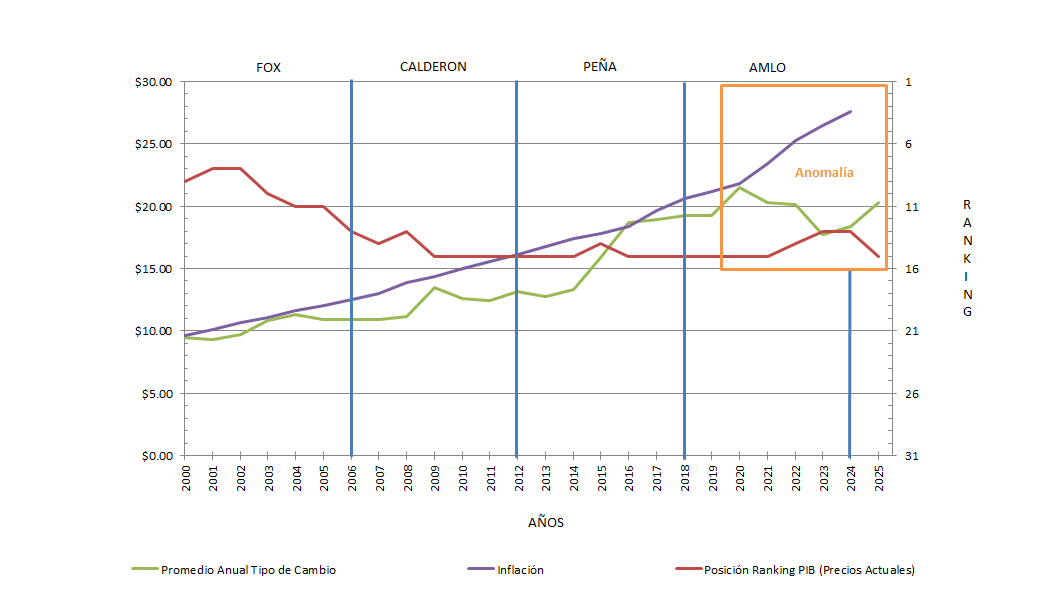
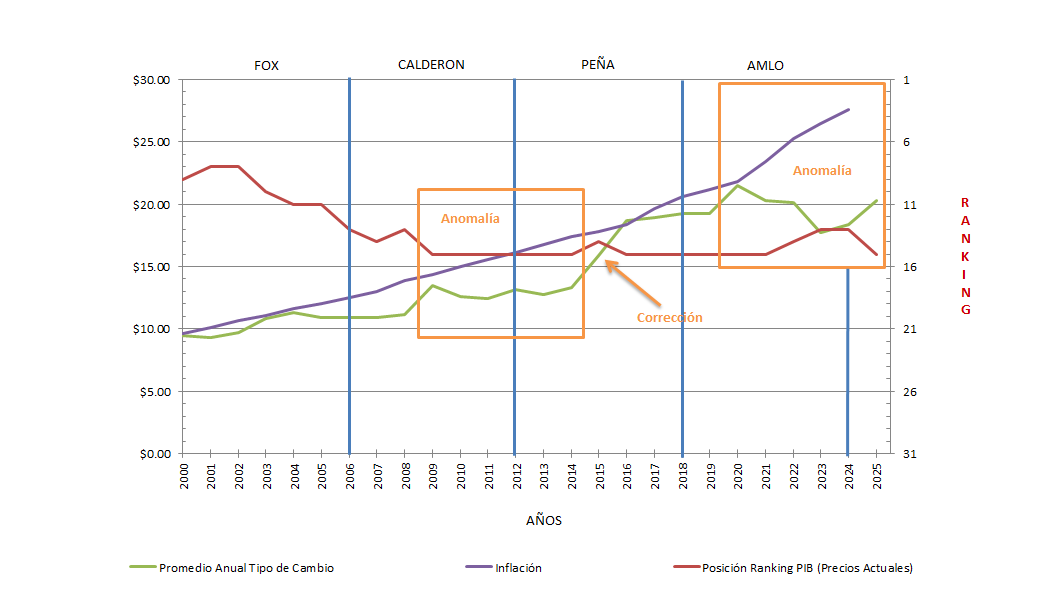
Add files via upload

diff --git a/index.html b/index.html
@@ -410,8 +410,9 @@ function abrirVentana(event, url) {
 <p class="derecha"><a href="#inicio">↑ Volver al inicio</a></p>
 <br>
 
-<p>Si graficamos los datos de la tabla anterior, se puede notar que a partir del año 2021 se desacopló la tendencia de la Inflación y la tendencia del Tipo de Cambio.
-Esperemos que eso no traiga problemas en un futuro.
+<p>Si graficamos los datos de la tabla anterior, se puede notar que a partir del año 2021 se desacopló la tendencia de la Inflación (Línea Morada) 
+y la tendencia del Tipo de Cambio (Línea Verde). Esperemos que eso no traiga problemas en un futuro como ocurrió en el período de 2009 a 2014 que terminó con
+una fuerte corrección. 
 </p>
 
 <img src="Tipo_Cambio_Inflacion.png" alt="Anomalía Tipo de Cambio e Inflación"  width="100%" height="">
